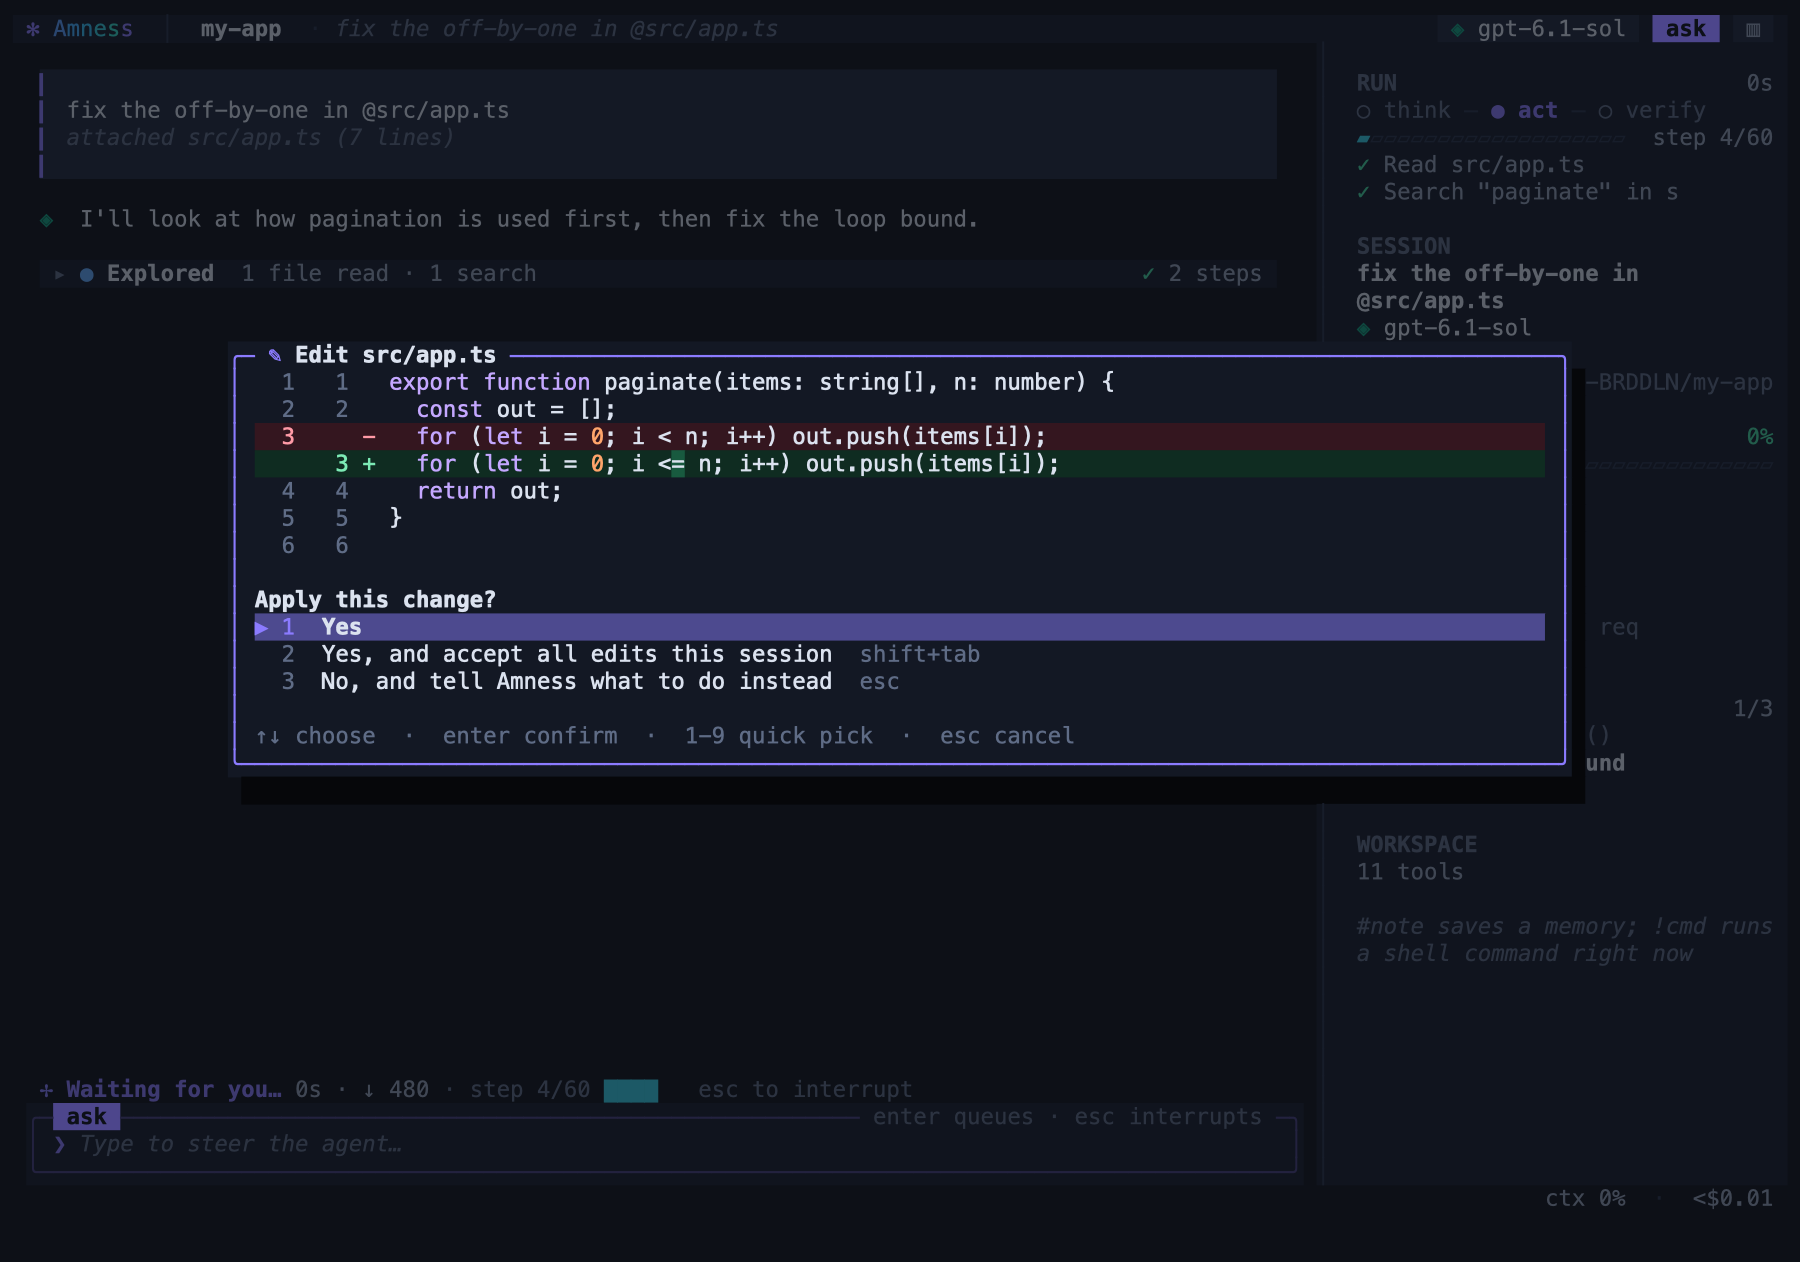
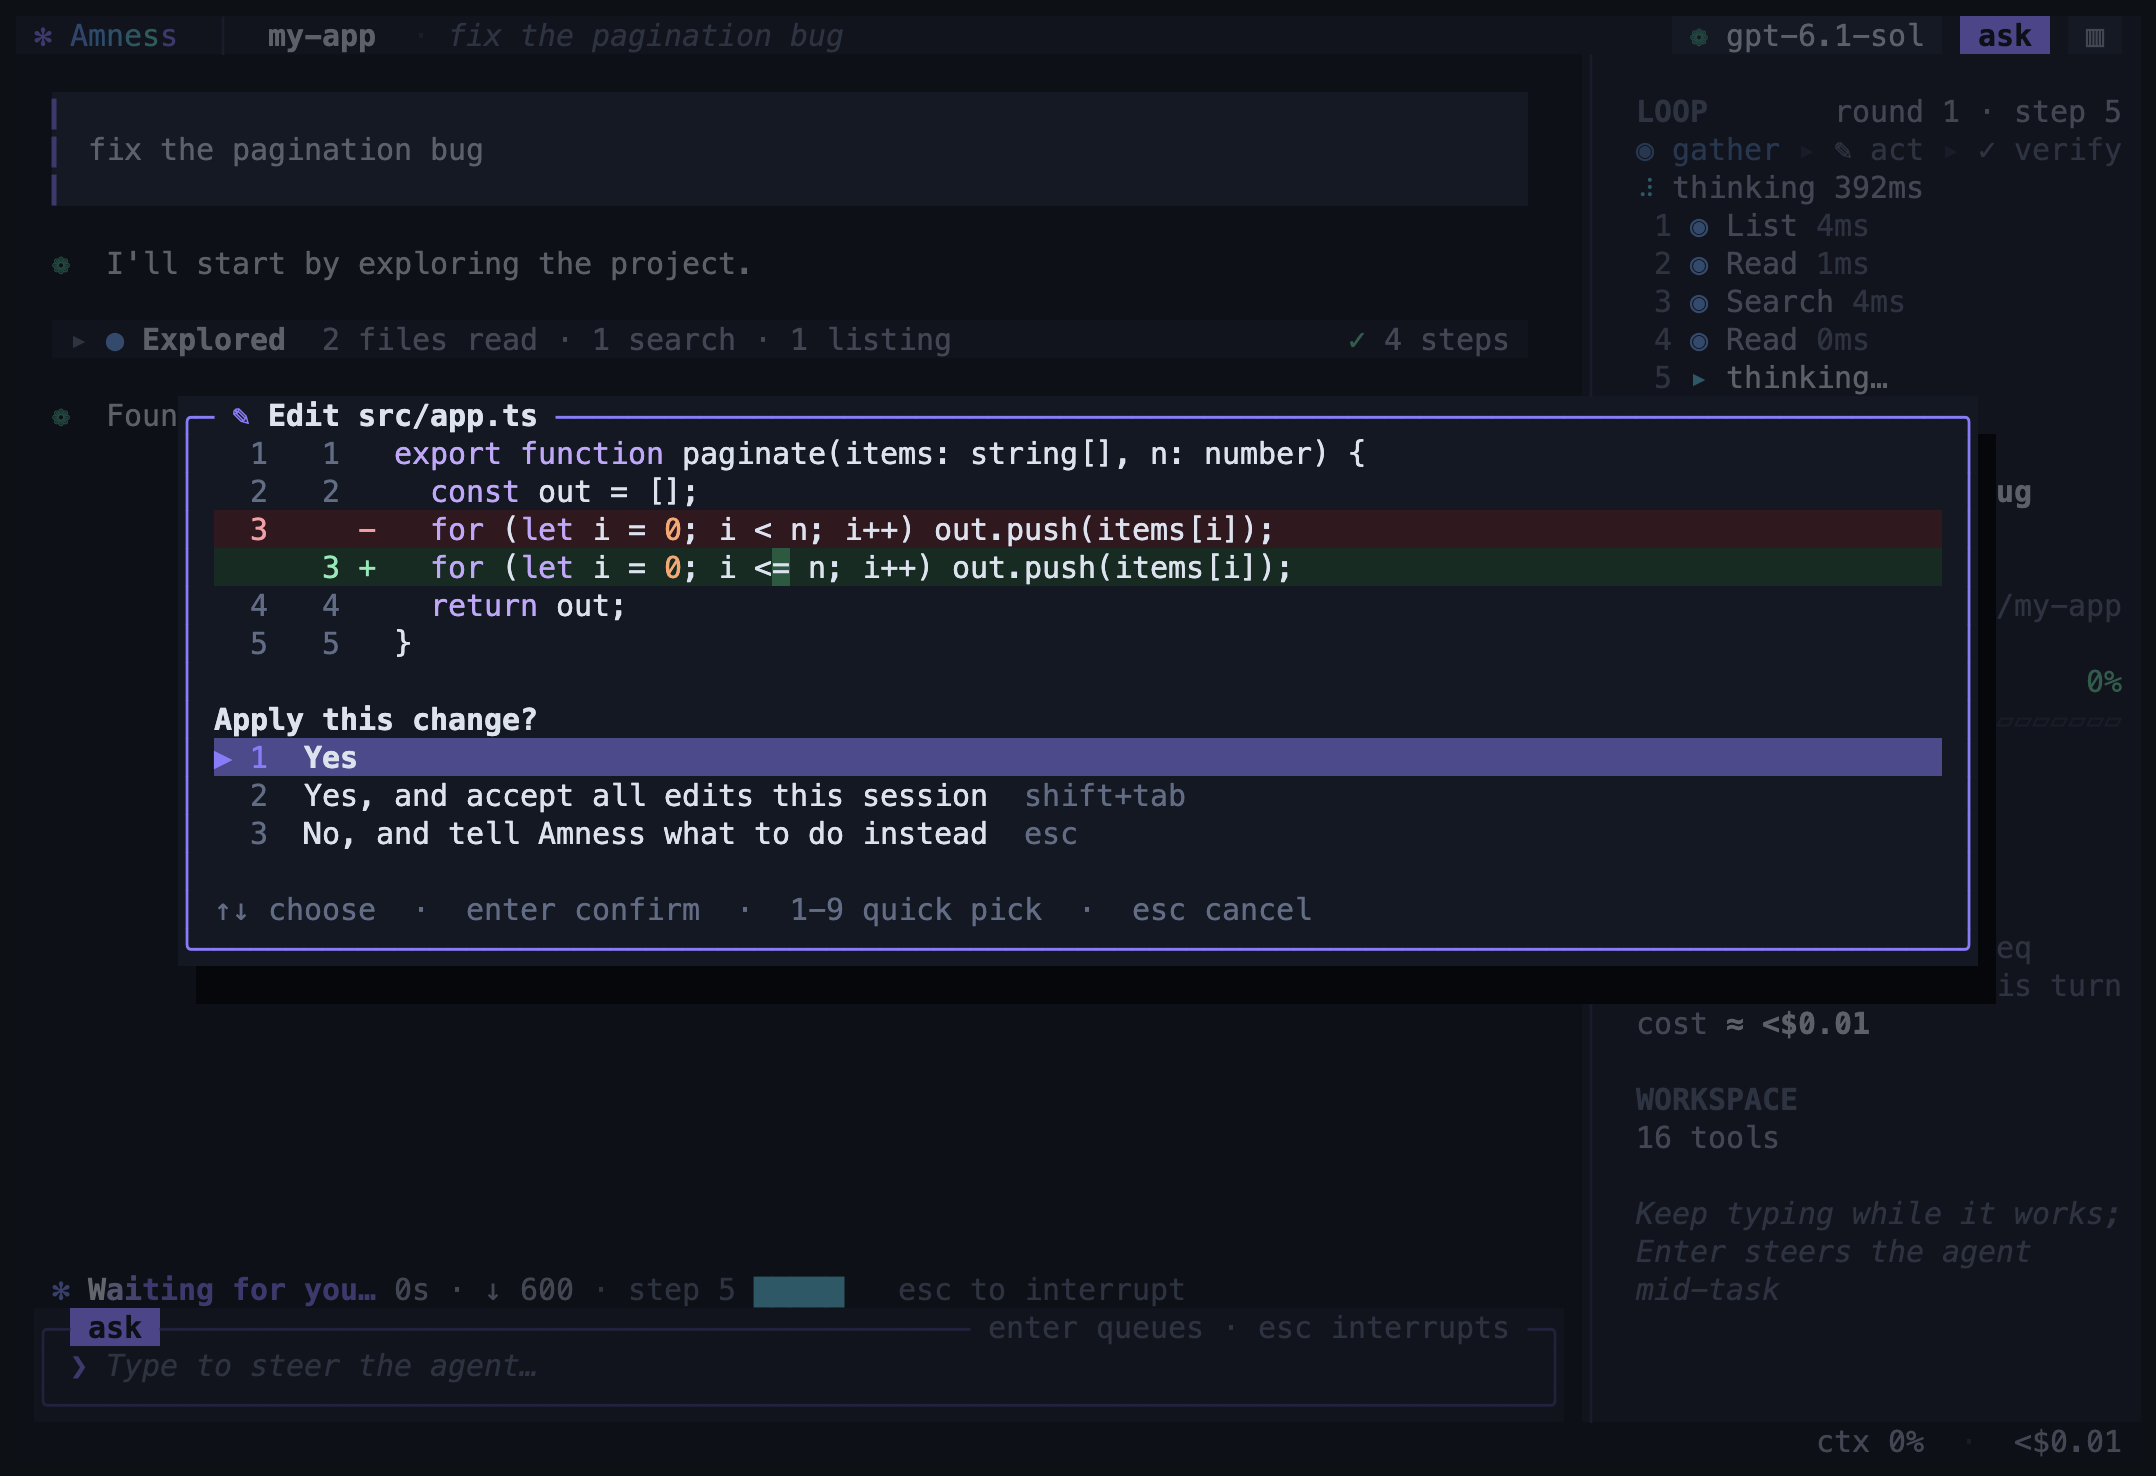
release: 0.10.0
MCP everywhere (config, .mcp.json, HTTP, sign-in, prompts, resources,
questions, pinning), amness serve with the /v1 API and the browser app,
amness service, amness-desktop --connect, and Amness as an MCP server for
Claude Code and Codex. New screenshots in the README and docs (terminal,
desktop, /mcp, phone-sized browser).

diff --git a/test/desktop-ui/run.ts b/test/desktop-ui/run.ts
@@ -3,6 +3,9 @@ import { tmpdir } from "node:os";
 import { join } from "node:path";
 import { spawn } from "node:child_process";
 import { fileURLToPath } from "node:url";
+import { readFileSync } from "node:fs";
+const VERSION: string = JSON.parse(readFileSync(new URL("../../package.json", import.meta.url), "utf8")).version;   // screenshots show the real version
+// AMNESS_UI_STEP_MS slows the scripted model (for screenshots that show a real duration).
 import { startDesktopServer } from "../../cli/desktop/server.ts";
 import { electronBinary } from "../../cli/desktop.ts";
 import { loadState, saveState } from "../../cli/state.ts";
@@ -22,7 +25,7 @@ const replies: Message[] = [
   { ...c("edit_file", { path: "src/paginate.ts", old: "i < start + size - 1", new: "i < Math.min(start + size, items.length)" }), content: "Found it: the loop stops one item early." },
   { role: "assistant", content: "Fixed the off-by-one in `src/paginate.ts:4`. Each page now has `size` items and the last page has no `undefined` rows.", usage: u },
 ];
-const model: Model = async (_m, _s, o) => { await new Promise((x) => setTimeout(x, 120)); const r = replies.shift() ?? { role: "assistant", content: "ok", usage: u }; if (r.content && o?.onThinking) o.onThinking("Looking at the loop bounds in paginate…"); if (r.content && o?.onText) o.onText(r.content); return r; };
+const model: Model = async (_m, _s, o) => { await new Promise((x) => setTimeout(x, Number(process.env.AMNESS_UI_STEP_MS ?? 120))); const r = replies.shift() ?? { role: "assistant", content: "ok", usage: u }; if (r.content && o?.onThinking) o.onThinking("Looking at the loop bounds in paginate…"); if (r.content && o?.onText) o.onText(r.content); return r; };
 if (process.argv.includes("--chats")) {
   saveState({ ...loadState(), trustedDirs: [dir] });                                // it saves for real, so the folder-trust question would come first                                         // saved conversations from several days, for the conversation list
   const chats = join(dir, ".amness", "chats"); mkdirSync(chats, { recursive: true });
@@ -36,7 +39,7 @@ if (process.argv.includes("--chats")) {
   mk("Rename customer to account across the API", 40 * 24 * H, 9, ["Rename customer to account.", "Renamed in 41 files, with an alias."]);
   for (let d = 10; d < 18; d++) mk(`Older task from ${d} days ago`, d * 24 * H, 2, ["An older request.", "An older answer."]);   // always "Previous 30 days": folded, and more than the cap
 }
-const srv = await startDesktopServer({ cfg: { provider: "openai", baseUrl: "http://127.0.0.1:9/v1", model: "gpt-6.1-sol", maxTokens: 300000, apiKey: "sk-test" } as any, cwd: dir, version: "0.1.8", persist: process.argv.includes("--chats"), makeModel: () => model });
+const srv = await startDesktopServer({ cfg: { provider: "openai", baseUrl: "http://127.0.0.1:9/v1", model: "gpt-6.1-sol", maxTokens: 300000, apiKey: "sk-test" } as any, cwd: dir, version: VERSION, persist: process.argv.includes("--chats"), makeModel: () => model });
 const env: NodeJS.ProcessEnv = { ...process.env, AMNESS_DESKTOP_URL: srv.url, AMNESS_DESKTOP_EVAL: evalFile, ...(size ? { AMNESS_DESKTOP_SIZE: size } : {}), ...(shot ? { AMNESS_DESKTOP_SCREENSHOT: shot } : {}) }; delete env.ELECTRON_RUN_AS_NODE;
 const ch = spawn(electronBinary()!, [fileURLToPath(new URL("../../cli/desktop/electron-main.cjs", import.meta.url))], { stdio: ["ignore", "pipe", "ignore"], env });
 let out = ""; ch.stdout.on("data", (d) => (out += d));

diff --git a/README.md b/README.md
@@ -64,11 +64,21 @@ Update the npm version with `npm install -g amness@latest`. Contributors: see [D
 
 <p align="center"><img src="docs/images/approval.png" alt="An edit waiting for your approval, with the diff" width="780"></p>
 
-The same agent as a desktop app (`amness-desktop`): the step happening now is open, finished steps fold, and the side panel shows the agent loop, context, cost and changes.
+This is the screen you will see most. The agent wants to change a file, shows you the exact diff, and waits.
 
-<p align="center"><img src="docs/images/desktop.png" alt="The Amness desktop app during a turn" width="780"></p>
+The same agent as a desktop app (`amness-desktop`): a finished turn folds to one line with the changed files, and the side panel shows the agent loop, context, cost and changes.
 
-This is the screen you will see most. The agent wants to change a file, shows you the exact diff, and waits. More screenshots (subagents, the loop view, themes) are in the [step-by-step guide](docs/getting-started.md).
+<p align="center"><img src="docs/images/desktop.png" alt="The Amness desktop app after a fix: the folded turn, the answer and the side panel" width="780"></p>
+
+Tools from [MCP servers](docs/mcp.md): yours, and the project's `.mcp.json` once you trust the project. `/mcp` shows each one's state.
+
+<p align="center"><img src="docs/images/mcp.png" alt="The /mcp view: two connected servers and one waiting for trust" width="780"></p>
+
+`amness serve` runs it as a service: the same app in a browser, on your phone too, and an [HTTP API](docs/api.md) for scripts, CI and other agents.
+
+<p align="center"><img src="docs/images/serve-phone.png" alt="Amness in a phone-sized browser through amness serve" width="300"></p>
+
+More screenshots (subagents, the loop view, themes) are in the [step-by-step guide](docs/getting-started.md).
 
 ## Examples
 

diff --git a/docs/desktop.md b/docs/desktop.md
@@ -2,7 +2,7 @@
 
 Amness also runs as a desktop app. It is the same agent as the terminal app, with the same settings, API keys, conversations, permissions and safety rules. Only the window is different.
 
-![The desktop app after a fix](images/desktop.png)
+![The desktop app after a fix: the turn folded to one line, the answer, and the side panel](images/desktop.png)
 
 ## Start it
 
@@ -25,6 +25,8 @@ The first time, if no API key is set, the app asks for one. Keys are saved in th
 ## What is in the window
 
 The window runs the terminal app itself (the same `App`), so everything the terminal can do, the window can do too. When a feature is added to the terminal app, the window has it as well.
+
+![An edit waiting for approval in the desktop app, with the diff](images/desktop-approval.png)
 
 - **Every command.** Type `/` in the message box for the same commands and suggestions as in the terminal, with their arguments (`/mode p` suggests `plan`). `!cmd` runs a shell command, `#note` saves a memory. `Ctrl/⌘ K` opens a searchable list of all commands. What a command prints (for example `/status`, `/loop`, `/tokens`) appears in the conversation in the terminal's colours, with a Copy button.
 - **Every dialog.** Approvals, pickers (`/model`, `/resume`, `/theme`…), questions and help open as windows: the same dialogs as in the terminal. Press `1`–`9` to choose; in a list, type to search. If you say no to an approval, Amness asks what to do instead. When Amness shows a plan, **Yes, after I edit the plan** opens it in an editor first.

diff --git a/CHANGELOG.md b/CHANGELOG.md
@@ -1,6 +1,6 @@
 # Changelog
 
-## Unreleased
+## 0.10.0 (2026-11-14)
 
 - **Amness as an MCP server, so Claude Code, Codex and other agents can hand it tasks.** `amness mcp serve` (stdio; `claude mcp add amness -- amness mcp serve`) and `/mcp` on `amness serve` (Streamable HTTP, same token, same sessions as the app and the API). Tools work on session handles: `amness_run`, `amness_status`, `amness_reply`, `amness_answer`, `amness_sessions`, `amness_close`; calls wait up to 50 s and then return the id to poll. Approvals go to the caller's user when the caller supports elicitation (both protocol generations), else to the calling agent as numbered options. Tested against the official MCP TypeScript SDK in both directions.
 - **MCP sign-in, prompts, resources and questions.** `amness mcp login|logout` and `/mcp login|logout`: OAuth 2.1 as MCP 2026-07-28 describes it (protected-resource and authorization-server discovery with the issuer checked, dynamic registration or your client id, PKCE S256, `resource`, `iss` check), tokens in the system key store and renewed before they expire. A server's prompts are `/mcp__<server>__<prompt>` commands; its resources are read with `list_mcp_resources` and `read_mcp_resource`. A server's question during a call (a form, or a page to open) opens the app's own dialog, in both protocol generations; without a person (`amness run`, editors) Amness declines.

diff --git a/docs/mcp.md b/docs/mcp.md
@@ -4,6 +4,8 @@ An MCP server is a program that gives the agent more tools: GitHub, a database, 
 
 The same servers work everywhere: in the terminal app, in the desktop app, in `amness run`, and in editors that use Amness through ACP.
 
+![The /mcp view: two connected servers and one from .mcp.json waiting for trust](images/mcp.png)
+
 ## Add a server
 
 ```bash

diff --git a/docs/api.md b/docs/api.md
@@ -60,6 +60,9 @@ The desktop window shows the running server instead of starting an agent on this
 
 ## Use it from your phone or another computer
 
+<img src="images/serve-phone.png" alt="Amness in a phone-sized browser" width="300">
+
+
 ```bash
 amness serve --host 0.0.0.0 --root ~/code
 ```
